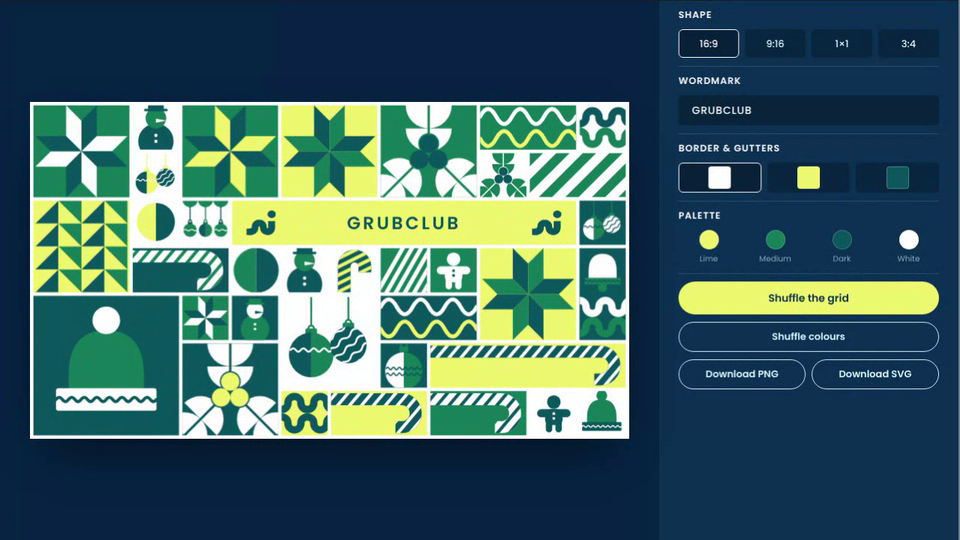
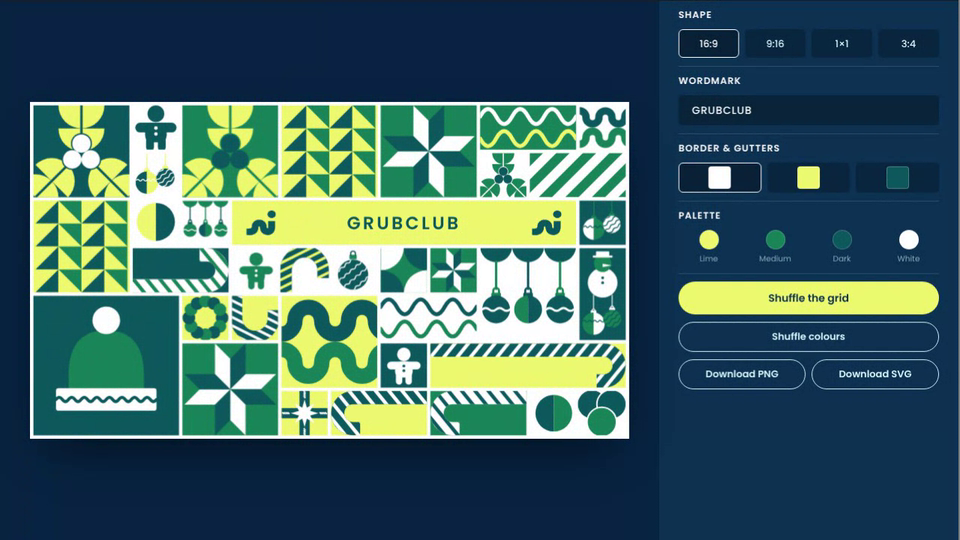
Grubclub Holiday Grid: candy canes flush with the cell edges, random vertical flips
Claude-Session: https://claude.ai/code/session_01AHeBdyRCcuLFjvrTGpsW3f

Changed region(s): [[0.125, 0.4444, 0.6562, 0.8296], [0.0312, 0.1778, 0.5, 0.3852], [0.5938, 0.1778, 0.6562, 0.2963]]

diff --git a/grubclub-holiday/index.html b/grubclub-holiday/index.html
@@ -146,7 +146,8 @@ const ICON = {
   hat: (k) => `<path d="M20 70 V58 Q20 22 50 22 Q80 22 80 58 V70Z" fill="${k.a}"/><rect x="10" y="68" width="80" height="18" rx="2" fill="${k.b}"/>` + zig(10, 90, 77, 3.4, 8, k.bg, 2.4) + circ(50, 14, 11, k.x),
   /* wrapped gift: full tile, ribbon cross, star bow */
   /* thick candy cane with diagonal stripes */
-  cane: (k) => { const id = 'cm' + (uid++), d = 'M32 104 V42 A21 21 0 0 1 74 42 V54', [cb, cs] = caneCols(k.bg); k = { ...k, a: cb, b: cs }; return `<mask id="${id}"><path d="${d}" stroke="#fff" stroke-width="26" fill="none"/></mask><path d="${d}" stroke="${k.a}" stroke-width="26" fill="none"/><g mask="url(#${id})">${Array.from({ length: 16 }, (_, i) => `<path d="M-10 ${i * 17 - 10} L110 ${i * 17 - 70}" stroke="${k.b}" stroke-width="7"/>`).join('')}</g>`; },
+  /* upright candy cane: the outer edges touch the top and both sides of the cell, the stem runs off the bottom; v flips it upside down */
+  cane: (k, v) => { const id = 'cm' + (uid++), d = 'M12 106 V50 A38 38 0 0 1 88 50 V66', [cb, cs] = caneCols(k.bg), g = `<mask id="${id}"><path d="${d}" stroke="#fff" stroke-width="24" fill="none"/></mask><path d="${d}" stroke="${cb}" stroke-width="24" fill="none"/><g mask="url(#${id})">${Array.from({ length: 16 }, (_, i) => `<path d="M-10 ${i * 17 - 10} L110 ${i * 17 - 70}" stroke="${cs}" stroke-width="5.5"/>`).join('')}</g>`; return v ? `<g transform="translate(0 100) scale(1 -1)">${g}</g>` : g; },
   /* two candles, a tall and a short: each flame sits in its own round backdrop, striped bodies, bleeding off the bottom */
   candle: (k) => { const c1 = 'cd' + (uid++), c2 = 'cd' + (uid++), st = (x0, y0, w2, h2, col, id, n) => `<clipPath id="${id}"><rect x="${x0}" y="${y0}" width="${w2}" height="${h2}"/></clipPath><g clip-path="url(#${id})">${Array.from({ length: n }, (_, i) => `<path d="M${x0 - h2 + 2 + i * 12} ${y0 + h2 + 2} L${x0 + 2 + i * 12} ${y0 - 2}" stroke="${col}" stroke-width="4.2"/>`).join('')}</g>`, fl = (cx, y0, hh, ww, col, sw) => `<path d="M${cx} ${y0} Q${cx + ww} ${y0 + hh / 2} ${cx} ${y0 + hh} Q${cx - ww} ${y0 + hh / 2} ${cx} ${y0}Z" fill="none" stroke="${col}" stroke-width="${sw}" stroke-linejoin="round"/>`;
     return circ(29, 34, 29, k.a) + circ(76, 56, 19, k.a) +
@@ -239,11 +240,11 @@ const BANDS = {
     for (let i = 0; i < rows; i++) o += archWave(-2 * r + (i % 2 ? r : 0), H * (i + .5) / rows, r, Math.ceil(W / (2 * r)) + 3, i % 2 ? c2 : c1, sw, i % 2);
     return tall ? `<g transform="translate(${f(w)} 0) rotate(90)">${o}</g>` : o; },
   /* candy cane lying on its side in a long rectangle: striped stem bleeding off one edge, hook at the other */
-  caneSide: (w, h, k, r) => { const id = 'cs' + (uid++), sw = h * .27, rad = (h * .9 - sw) / 2, ys = h * .05 + sw / 2 + (h * .9 - 2 * rad - sw) / 2, flip = r() < .5, xe = w - h * .12 - rad - sw / 2, [c1, c2] = caneCols(k.bg), st = sw * .27, pitch = sw;
+  caneSide: (w, h, k, r) => { const id = 'cs' + (uid++), sw = h * .3, rad = (h - sw) / 2, ys = sw / 2, hflip = r() < .5, vflip = r() < .5, xe = w - rad - sw / 2, [c1, c2] = caneCols(k.bg), st = sw * .27, pitch = sw; /* outer edges flush with the top, bottom and hook-side edges of the cell */
     const d = `M${f(-sw)} ${f(ys)} H${f(xe)} A${f(rad)} ${f(rad)} 0 0 1 ${f(xe)} ${f(ys + 2 * rad)} H${f(xe - rad * .45)}`; let stripes = '';
     for (let x = -h * 2; x < w + h; x += pitch) stripes += `<path d="M${f(x)} ${f(h + sw)} L${f(x + h * 1.3)} ${f(-sw)}" stroke="${c2}" stroke-width="${f(st)}"/>`;
     const g = `<mask id="${id}"><path d="${d}" stroke="#fff" stroke-width="${f(sw)}" fill="none"/></mask><path d="${d}" stroke="${c1}" stroke-width="${f(sw)}" fill="none"/><g mask="url(#${id})">${stripes}</g>`;
-    return flip ? `<g transform="translate(${f(w)} 0) scale(-1 1)">${g}</g>` : g; },
+    return `<g transform="translate(${hflip ? f(w) : 0} ${vflip ? f(h) : 0}) scale(${hflip ? -1 : 1} ${vflip ? -1 : 1})">${g}</g>`; },
   /* two soft wave lines, evenly centred in the tile (a quarter in from each edge); on tall tiles they run vertically with four swiggles each */
   zigzag: (w, h, k) => { const tall = h > w, W = tall ? h : w, H = tall ? w : h, m = Math.min(w, h), cols = Object.values(C).filter((c) => c !== k.bg).sort((u, v) => contrastOf(v, k.bg) - contrastOf(u, k.bg)).slice(0, 2), n = tall ? 4 : Math.max(3, Math.round(W / (m * .8))), amp = m * .34, sw = m * .09;
     const o = [.25, .75].map((fr, i) => zig(0, W, H * fr, i ? -amp : amp, n, cols[i], sw)).join(''); return tall ? `<g transform="translate(${f(w)} 0) rotate(90)">${o}</g>` : o; },
